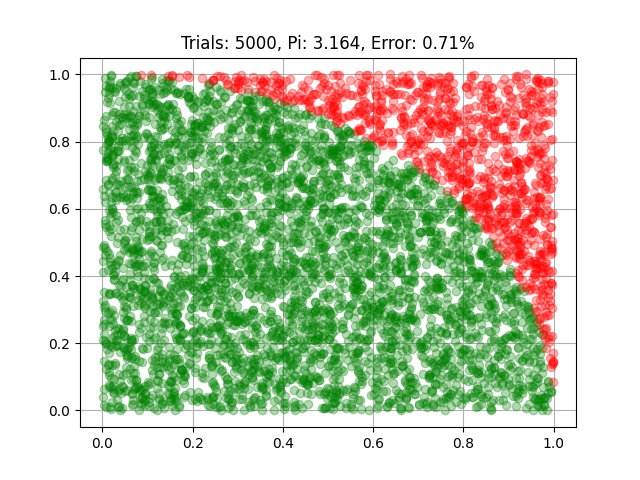
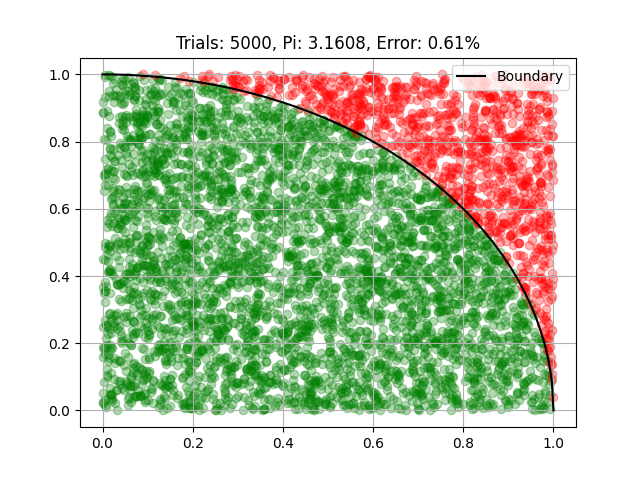
A code and fig of pi improved

diff --git a/src/pi.py b/src/pi.py
@@ -1,3 +1,4 @@
+from cProfile import label
 import numpy as np
 import matplotlib.pyplot as plt
 from tqdm import tqdm
@@ -8,18 +9,23 @@ fig = plt.figure()
 
 # constant
 N: int = 5_000
+accepted: list[list[float]] = [[], []]
+rejected: list[list[float]] = [[], []]
 
 def calc_pi():
-    accepted: int = 0
+
     for i in tqdm(range(N)):
         x, y = np.random.rand(2)
         if x ** 2 + y ** 2 <= 1.0:
-            accepted += 1
-            plt.plot(x, y, marker="o", c="g", alpha=0.3, mec="g")
+            accepted[0].append(x)
+            accepted[1].append(y)
+            # plt.plot(x, y, marker="o", c="g", alpha=0.3, mec="g")
         else:
-            plt.plot(x, y, marker="o", c="r", alpha=0.3, mec="r")
+            rejected[0].append(x)
+            rejected[1].append(y)
+            # plt.plot(x, y, marker="o", c="r", alpha=0.3, mec="r")
 
-    pi = 4.0 * accepted / N
+    pi = 4.0 * len(accepted[0]) / N
     return pi
 
 if __name__ == "__main__":
@@ -35,6 +41,13 @@ if __name__ == "__main__":
     print(result)
 
     print("Save fig.")
+    plt.scatter(accepted[0], accepted[1], c="g", alpha=0.3, edgecolors="g")
+    plt.scatter(rejected[0], rejected[1], c="r", alpha=0.3, edgecolors="r")
+
+    x = np.linspace(0, 1, 300)
+    y = np.sqrt(1 - x ** 2)
+    plt.plot(x, y, c="k", label="Boundary")
     plt.title(f"Trials: {N}, " + result)
+    plt.legend()
     plt.grid()
     plt.savefig("../fig/monte_carlo_pi.png")
